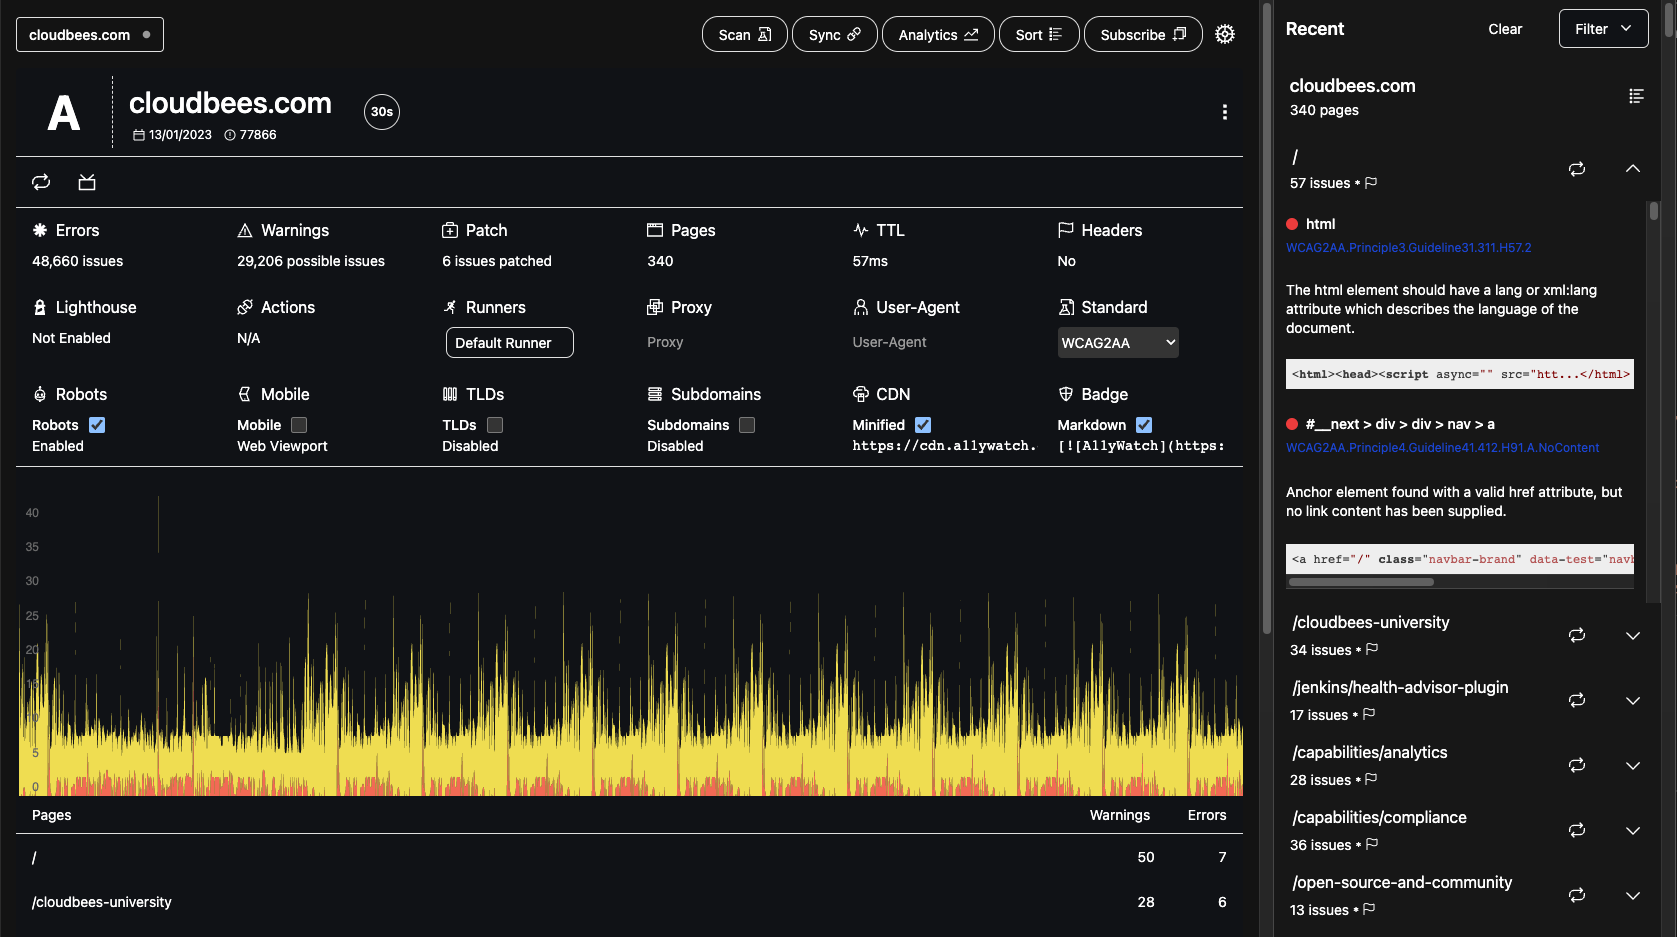
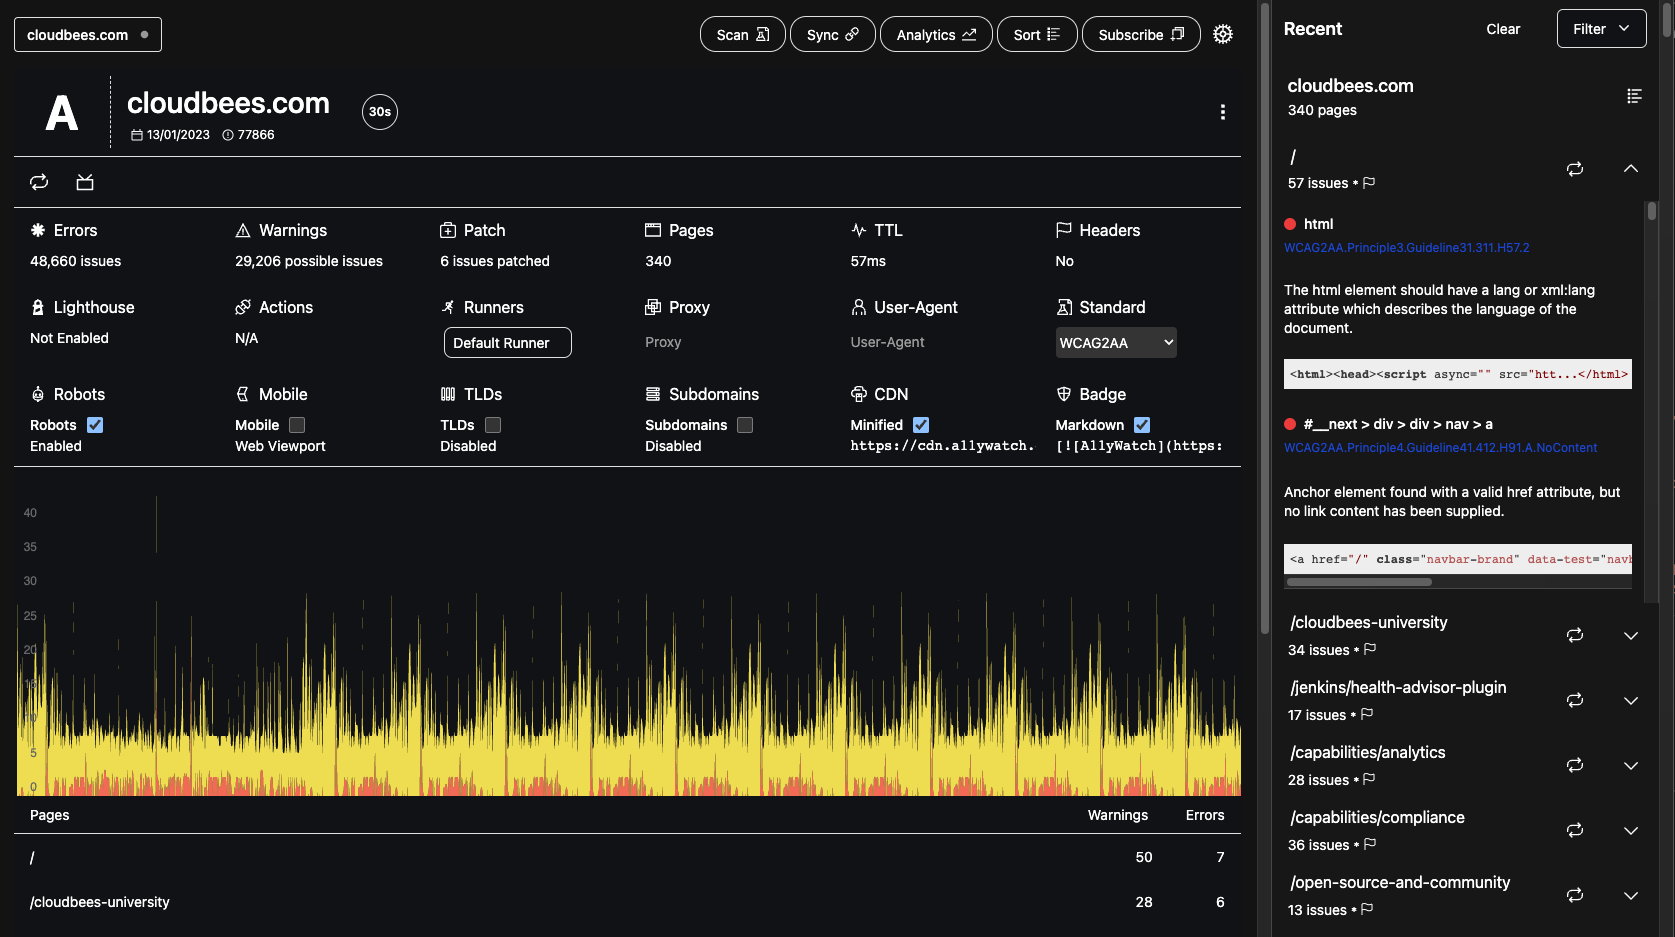
chore(mark): update intro benchmarks 200k/m

diff --git a/src/components/stateless/marketing/intro-graph.tsx b/src/components/stateless/marketing/intro-graph.tsx
@@ -1,6 +1,5 @@
 import { FC } from 'react'
 
-// todo: use on a benchmark page. Focus sole on A11yWatch across feature usage speeds.
 export const IntroGraph: FC = () => {
   return (
     <div className='py-6'>
@@ -13,11 +12,11 @@ export const IntroGraph: FC = () => {
           <li className='flex flex-1 px-2 h-full'>
             <div className='flex flex-col h-full place-content-end'>
               <div className='py-1' aria-hidden='true'>
-                <div className='text-base font-semibold'>150,025</div>
+                <div className='text-base font-semibold'>208,633</div>
               </div>
               <div className='px-2 bg-black dark:bg-white h-full w-20 rounded-t border-4 border-b-0 border-gray-700'>
                 <div className='sr-only'>
-                  A11yWatch: 150,025 scans per minute
+                  A11yWatch: 208,633 scans per minute
                 </div>
               </div>
             </div>
@@ -44,7 +43,7 @@ export const IntroGraph: FC = () => {
           </li>
         </ul>
         <div className='grid grid-cols-3 py-2 text-center'>
-          <div className='text-sm font-medium'>Audits per second</div>
+          <div className='text-sm font-medium'>Audits per minute</div>
           <div className='text-sm font-medium'>Accessibility coverage</div>
           <div className='text-sm font-medium'>Percent open source</div>
         </div>

diff --git a/src/components/stateless/marketing/intro-benches.tsx b/src/components/stateless/marketing/intro-benches.tsx
@@ -1,5 +1,6 @@
 import { FC } from 'react'
 
+// todo: use on a benchmark page. Focus sole on A11yWatch across feature usage speeds.
 export const IntroBenches: FC = () => {
   return (
     <div className='py-6'>
@@ -14,11 +15,11 @@ export const IntroBenches: FC = () => {
           <li className='flex flex-1 px-2 h-full'>
             <div className='flex flex-col h-full place-content-end'>
               <div className='py-1' aria-hidden='true'>
-                <div className='text-base font-semibold'>150,025</div>
+                <div className='text-base font-semibold'>208,633</div>
               </div>
               <div className='px-2 bg-blue-600 h-full w-20 rounded-t border-4 border-b-0 border-blue-700'>
                 <div className='sr-only'>
-                  A11yWatch: 150,025 scans per minute
+                  A11yWatch: 208,633 scans per minute
                 </div>
               </div>
             </div>

diff --git a/src/components/stateless/marketing/dashboard.tsx b/src/components/stateless/marketing/dashboard.tsx
@@ -15,9 +15,9 @@ export function MarketingDashboard(): ReactElement<any, any> | null {
         <div className='py-4'>
           <LazyMount>
             <ThemedImage
-              width={1678}
+              width={1675}
               className={'shadow border rounded'}
-              height={931}
+              height={937}
               quality={100}
               src={'/img/dashboard-example.png'}
               srcDark={'/img/dark_dashboard-example.png'}

diff --git a/src/pages/changelog.tsx b/src/pages/changelog.tsx
@@ -13,6 +13,14 @@ interface ListLog {
 
 const list: ListLog[] = [
   {
+    date: 'January 2023',
+    updates: [
+      'Selecting multiple runners supported.',
+      'Proxy connect support.',
+      'Performance improvements reaching 200k audits per minute!',
+    ],
+  },
+  {
     date: 'December 2022',
     updates: ['Analytics across all pages and domains.', 'Dark mode support!'],
   },
